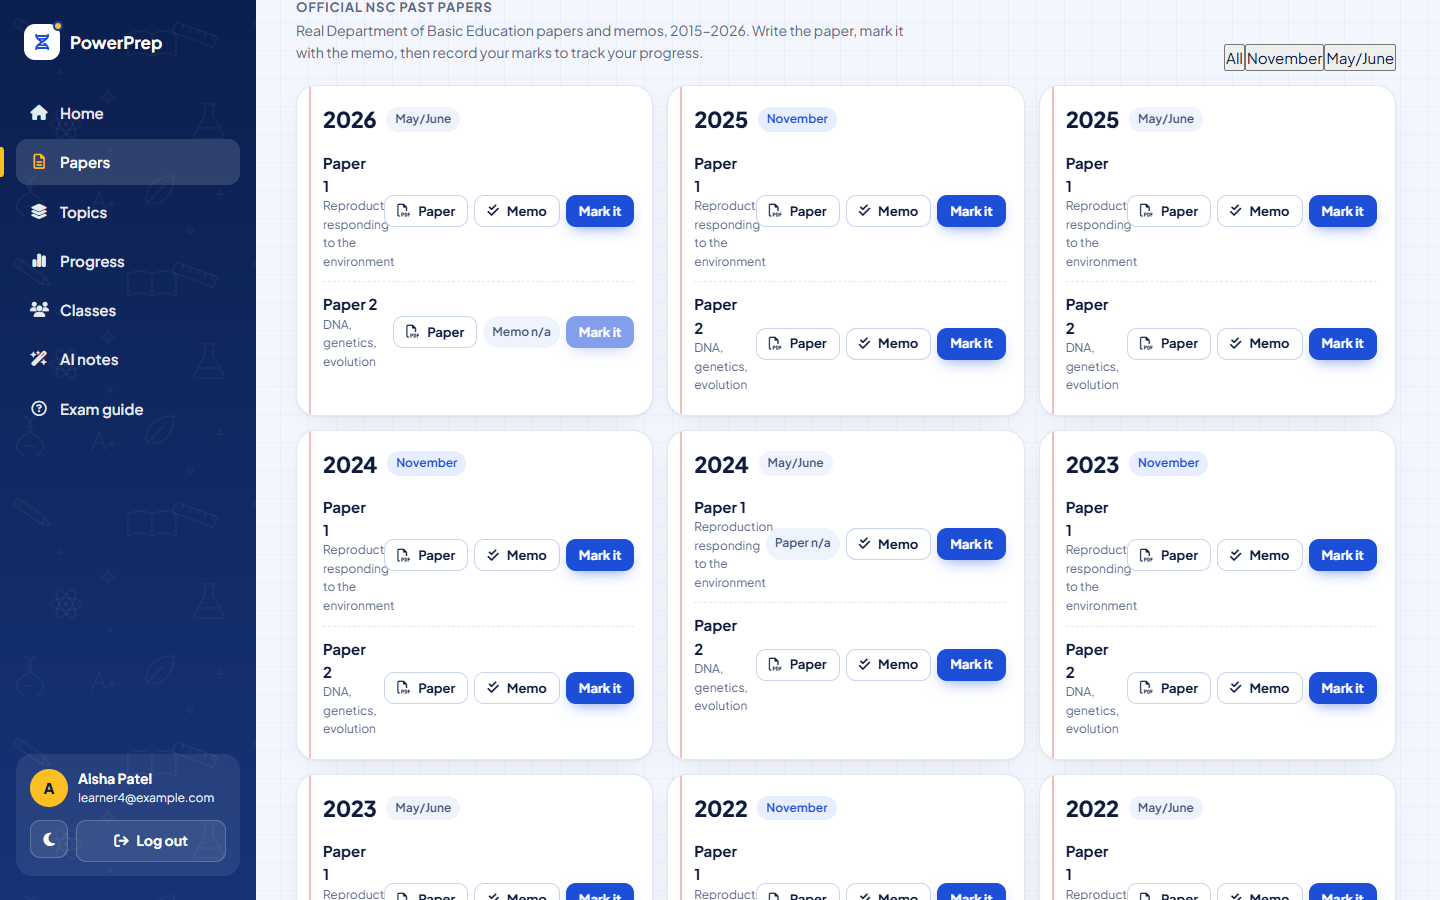
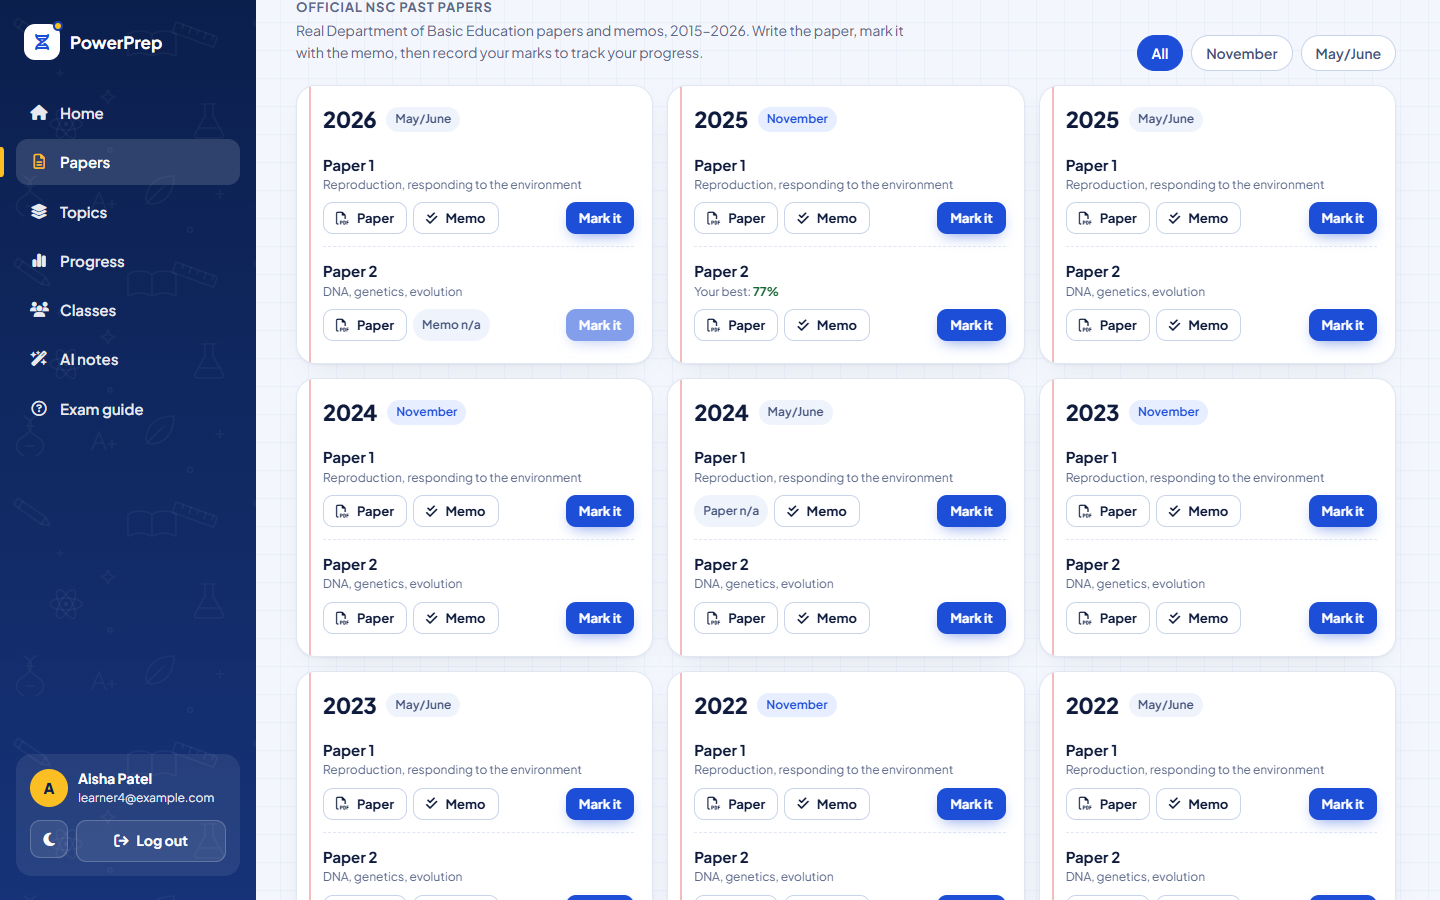
README: past papers, memo marking, AI notes, architecture and tests

diff --git a/README.md b/README.md
@@ -1,13 +1,14 @@
 # 🧬 PowerPrep: Grade 12 Life Sciences exam prep
 
-**Timed, exam-style practice for South African matric learners, with teacher classes, set tests and live online lessons.**
+**Timed, exam-style practice for South African matric learners: real NSC past papers with memo self-marking, AI note summaries, teacher classes, set tests and live online lessons.**
 
 [![Live demo](https://img.shields.io/badge/Live_demo-life--sciences--grade12--tester.vercel.app-1d4ed8?style=for-the-badge&logo=vercel)](https://life-sciences-grade12-tester.vercel.app)
 
 ![JavaScript](https://img.shields.io/badge/Vanilla_JS-ES_modules-f7df1e?logo=javascript&logoColor=black)
 ![Firebase](https://img.shields.io/badge/Firebase-Auth_%2B_Firestore-ffca28?logo=firebase&logoColor=black)
 ![Security rules](https://img.shields.io/badge/Firestore_rules-56_tests-2ea44f)
-![E2E](https://img.shields.io/badge/Playwright-3_user_journeys-2ead33?logo=playwright)
+![E2E](https://img.shields.io/badge/Playwright-4_user_journeys-2ead33?logo=playwright)
+![AI](https://img.shields.io/badge/AI-Groq_via_serverless-f55036)
 ![Accessibility](https://img.shields.io/badge/WCAG_AA-contrast_audited-0b1f4d)
 
 ![PowerPrep learner dashboard](docs/screenshots/learner-home.png)
@@ -20,7 +21,7 @@ Open **[life-sciences-grade12-tester.vercel.app](https://life-sciences-grade12-t
 
 | Explore as | Email | Password | What to look at |
 |---|---|---|---|
-| 🎓 **Learner** | `learner4@example.com` | `123456` | Home → **Online classes** and **Set by your teacher** · start a test, flag a question, **Save & exit**, then resume · results → **Review answers** · **Progress** charts |
+| 🎓 **Learner** | `learner4@example.com` | `123456` | Home → **Online classes** and **Set by your teacher** · **Papers** → real NSC papers, open a memo, **Mark it** · **AI notes** → upload a PDF of notes and get a revision sheet · start a test, flag a question, **Save & exit**, then resume · **Progress** charts |
 | 👩🏫 **Teacher** | `teacher2@example.com` | `123456` | **Classes → Open class** → learners table, **Topic insights**, **Set tests**, **Online classes** (go live or schedule) |
 | 🛡 **Admin** | *not public* | | See the [admin screenshot](#-admin) below |
 
@@ -40,6 +41,9 @@ Grade 12 learners often don't know **which topics are costing them marks**, and 
 - **Pause and resume**: leaving a test or refreshing the page keeps the answers and the timer
 - **Results and review**: score, topic breakdown and a recommendation, then every question with the correct answer and an explanation (filter by incorrect or unanswered)
 - **Progress**: per-topic mastery, a "focus area", a score history chart and a daily streak, all calculated from real answers
+- **Real NSC past papers**: every official Life Sciences Paper 1 and Paper 2 with memos from **2015 to 2026**, opened from the Department of Basic Education website
+- **Mark it against the memo**: write the paper, mark it with the official memo and enter marks per question; the score counts towards progress, streak and the teacher's class view
+- **AI notes**: upload a PDF or text file (or paste notes) and get a revision sheet with a summary, key terms, must-know facts and exam-style questions with answers; copy it, download it, save it as a PDF, or keep it in a personal library
 - **Classes**: join a teacher's class with a 6-character code (and leave any time); set tests and online lessons appear on Home
 
 ### 👩🏫 Teachers
@@ -65,6 +69,13 @@ Grade 12 learners often don't know **which topics are costing them marks**, and 
 |---|---|
 | ![Results with topic breakdown](docs/screenshots/learner-results.png) | ![Progress charts](docs/screenshots/learner-progress.png) |
 
+| Official NSC past papers | Marking against the memo |
+|---|---|
+| ![Official NSC past papers with paper and memo links](docs/screenshots/official-papers.png) | ![Entering marks per question against the memo](docs/screenshots/mark-against-memo.png) |
+
+#### ✨ AI notes
+![AI notes: a PDF of homeostasis notes turned into a revision sheet](docs/screenshots/ai-notes.png)
+
 | Teacher: class overview | Teacher: online classes |
 |---|---|
 | ![Teacher class with learner stats](docs/screenshots/teacher-class.png) | ![Scheduling and hosting online classes](docs/screenshots/teacher-online-classes.png) |
@@ -85,6 +96,17 @@ Grade 12 learners often don't know **which topics are costing them marks**, and 
 - Learners can only touch their own data, teachers only see learners who joined *their* classes, only admins can grant roles or change questions, and saved results can't be edited.
 - The rules are covered by **[56 allow/deny tests](tests/rules/rules.test.mjs)** run against the Firestore emulator, and were checked again against the live project with the demo accounts.
 
+**AI without exposing the key.**
+- The Groq API key exists only as a Vercel secret. The browser calls [`/api/summarize`](api/summarize.js), a serverless function that checks the Firebase sign-in, enforces a **daily limit per learner** and only then calls Groq.
+- The daily counter is stored in Firestore under rules that only let it **go up by one**, so a learner can't reset their own limit, even though the write uses their own sign-in.
+- Uploaded notes are wrapped as data in the prompt, and the model is told never to follow instructions inside them (a prompt-injection defence). PDFs are read **in the browser** with pdf.js, so only the extracted text is sent.
+- If Groq retires the configured model, the function switches to a current one automatically.
+
+**Real past papers, checked one by one.**
+- A scraper pulled every Life Sciences entry from the DBE's year pages (21 exam sessions). Each of the 84 English papers and memos was then **downloaded and its cover page read** to confirm the subject, paper number, year and paper-vs-memo.
+- That caught **two broken links on the DBE site itself**: a 2026 memo that is actually *Information Technology*, and a 2024 "Paper 1" that serves the memo. They show as "n/a" instead of sending learners to the wrong file.
+- The papers stay on the DBE website (© Department of Basic Education); the app links to them rather than copying them.
+
 **The data model is built for cheap reads.**
 - Each learner's running totals and per-topic stats are kept with atomic `increment()` writes, so dashboards never re-add up the history, and two open tabs can't overwrite each other.
 - Class progress is mirrored into the class roster, so a teacher's view is a single collection read and never needs access to a learner's private profile.
@@ -99,7 +121,8 @@ Grade 12 learners often don't know **which topics are costing them marks**, and 
 - The illustrations are hand-drawn SVG.
 
 **It's accessible and tested.**
-- Three **[Playwright journeys](tests/e2e)** cover the learner, school and online-class flows end to end, against an in-memory Firebase fake.
+- Four **[Playwright journeys](tests/e2e)** cover the learner, school, online-class, past-paper and AI-notes flows end to end. They run against an in-memory Firebase fake that answers asynchronously like a real network, which is what caught a real save bug before it reached learners.
+- A **[unit test](tests/unit/markdown.test.mjs)** covers the Markdown renderer for AI summaries, including HTML escaping.
 - Every screen they visit goes through an **automated WCAG AA contrast audit** in light *and* dark mode (0 issues), plus a check for sideways scrolling on a phone-sized screen.
 
 ---
@@ -118,13 +141,22 @@ flowchart LR
         S{{Security rules<br/>roles · ownership}}
         F[(Cloud Firestore<br/>africa-south1)]
     end
+    subgraph Vercel["Vercel serverless"]
+        V[api/summarize]
+    end
+    G[(Groq LLM)]
     J[Jitsi / Meet / Zoom<br/>video rooms]
+    E[DBE website<br/>past papers + memos]
 
     L --> A
     D --> A
     D -- reads / writes --> S --> F
     R --> S
+    D -- notes + ID token --> V
+    V -- verify sign-in, daily limit --> S
+    V -- secret key --> G
     D -- opens --> J
+    D -- links to --> E
 ```
 
 | Collection | Holds | Who can read / write |
@@ -135,14 +167,17 @@ flowchart LR
 | `classes/{id}` with `members`, `assignments`, `sessions` | The class, its roster with progress, set tests and submissions, online classes and attendance | The class teacher · members see what applies to them |
 | `classCodes/{code}` | Join code → class | Look up one code; can't be listed |
 | `questions/{id}` | The question bank (once imported) | Everyone signed in reads · admins write |
+| `users/{uid}/summaries/{id}` | AI summaries the learner saved | The learner only |
+| `aiUsage/{uid}` | Today's AI usage count | The learner · can only go up by one |
 
 ---
 
 ## 🧰 Tech stack
 
 - **Frontend:** HTML, CSS (custom properties, grid), JavaScript ES modules, Chart.js, Font Awesome
-- **Backend:** Firebase Authentication, Cloud Firestore, Firestore security rules
-- **Testing:** Playwright, Firebase rules-unit-testing with the emulator, a custom contrast audit
+- **Backend:** Firebase Authentication, Cloud Firestore, Firestore security rules, a Vercel serverless function
+- **AI:** Groq (OpenAI-compatible chat API), with pdf.js reading PDFs in the browser
+- **Testing:** Playwright, Firebase rules-unit-testing with the emulator, a custom contrast audit, Node unit tests
 - **Hosting and tooling:** Vercel, Firebase CLI, Git and GitHub
 
 ## 📁 Project structure
@@ -150,7 +185,8 @@ flowchart LR
 ```
 index.html                 Landing page
 shared/                    Design system (theme.css) and UI helpers (ui.js)
-assets/                    SVG illustration and doodle patterns
+assets/                    SVG illustration, doodle patterns and favicon
+api/summarize.js           Serverless function: sign-in check, daily limit, Groq call
 auth/                      Login, sign-up, Firebase config
 dashboard/
   index.html               Dashboard shell: home, papers, topics, progress, classes, admin, test, results
@@ -158,6 +194,9 @@ dashboard/
   data.js                  Profile and results (Firestore)
   school-data.js           Roles, classes, set tests, online classes, admin data
   classes.js · online.js   Classes page and online classes
+  official-papers.js       Official NSC papers and memo self-marking
+  past-papers.js           Verified DBE paper and memo links (2015–2026)
+  notes.js                 AI notes page
   admin.js                 Admin page
   progress.js              Charts
   questions.js             Question bank, papers and topics
@@ -166,6 +205,7 @@ firestore.rules            Security rules
 tests/
   e2e/                     Playwright journeys, contrast audit, Firebase fake
   rules/                   Security-rule tests (Firestore emulator)
+  unit/                    Unit tests
 scripts/seed.mjs           Seeds demo accounts and data (Admin SDK)
 ```
 
@@ -189,7 +229,8 @@ The app talks to the hosted Firebase project, so the demo accounts above work lo
 cd tests
 npm install
 npm run setup          # downloads Playwright's Chromium once
-npm run test:e2e       # 3 user journeys + contrast audit (THEME=dark for dark mode)
+npm run test:unit      # Markdown renderer for AI summaries
+npm run test:e2e       # 4 user journeys + contrast audit (THEME=dark for dark mode)
 npm run test:rules     # 56 security-rule tests in the Firestore emulator (needs Java 21+)
 ```
 
@@ -198,7 +239,8 @@ npm run test:rules     # 56 security-rule tests in the Firestore emulator (needs
 1. Create a project, enable **Email/Password** (and optionally **Google**) sign-in, and create a Firestore database.
 2. Put your web config in [`auth/firebase-config.js`](auth/firebase-config.js) and your project ID in `.firebaserc`.
 3. Deploy the rules and indexes: `firebase deploy --only firestore`
-4. Seed demo data with [`scripts/seed.mjs`](scripts/seed.mjs) (needs a service account key, which is git-ignored). Or create the first admin by adding `roles/{yourUid} = { role: "admin" }` in the Firestore console.
+4. For AI notes, add a Groq key as a Vercel secret with `vercel env add GROQ_API_KEY production` (optional settings: `GROQ_MODEL`, `AI_DAILY_LIMIT`).
+5. Seed demo data with [`scripts/seed.mjs`](scripts/seed.mjs) (needs a service account key, which is git-ignored). Or create the first admin by adding `roles/{yourUid} = { role: "admin" }` in the Firestore console.
 
 ---
 
@@ -211,7 +253,8 @@ npm run test:rules     # 56 security-rule tests in the Firestore emulator (needs
 
 ## 📌 Notes
 
-- The questions are **exam-style practice questions written for this app**, not reproductions of official DBE papers.
+- The practice questions are **exam-style questions written for this app**. Official NSC papers and memos are **linked** from the Department of Basic Education website, not copied (© Department of Basic Education).
+- AI summaries can contain mistakes; the app says so under every summary.
 - The demo accounts use a simple shared password on purpose; a real deployment should use strong passwords and remove them.
 
 ## 👨💻 Author
